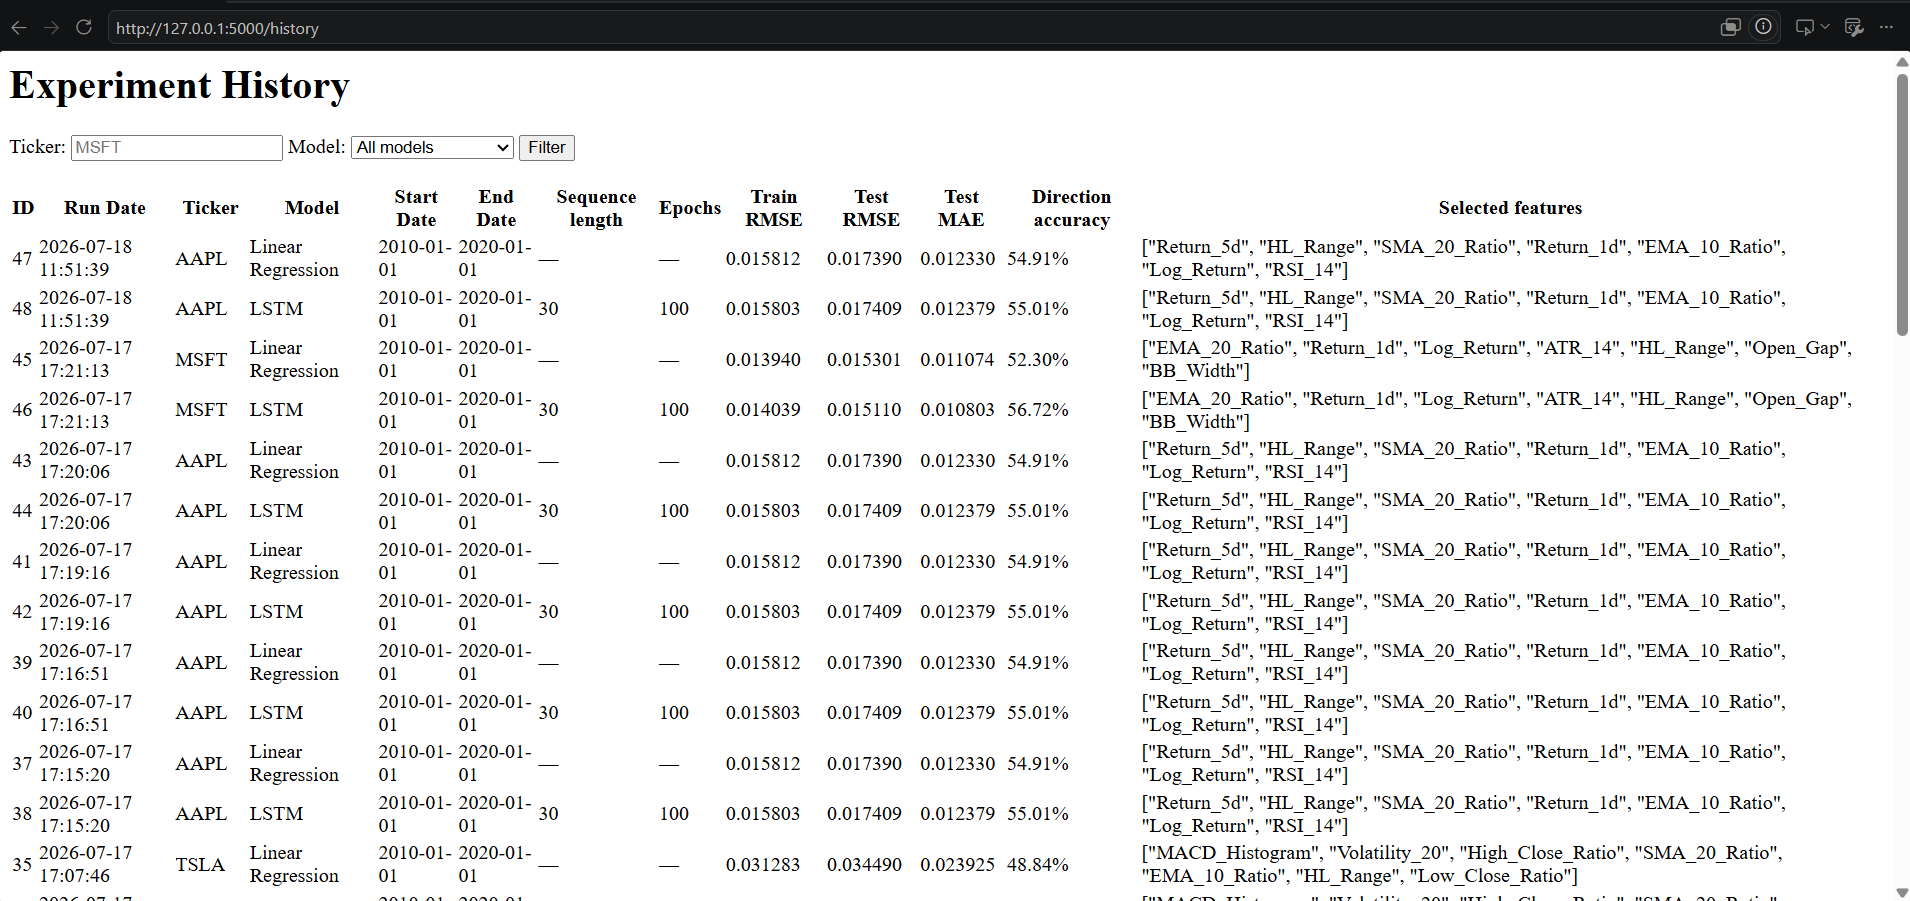
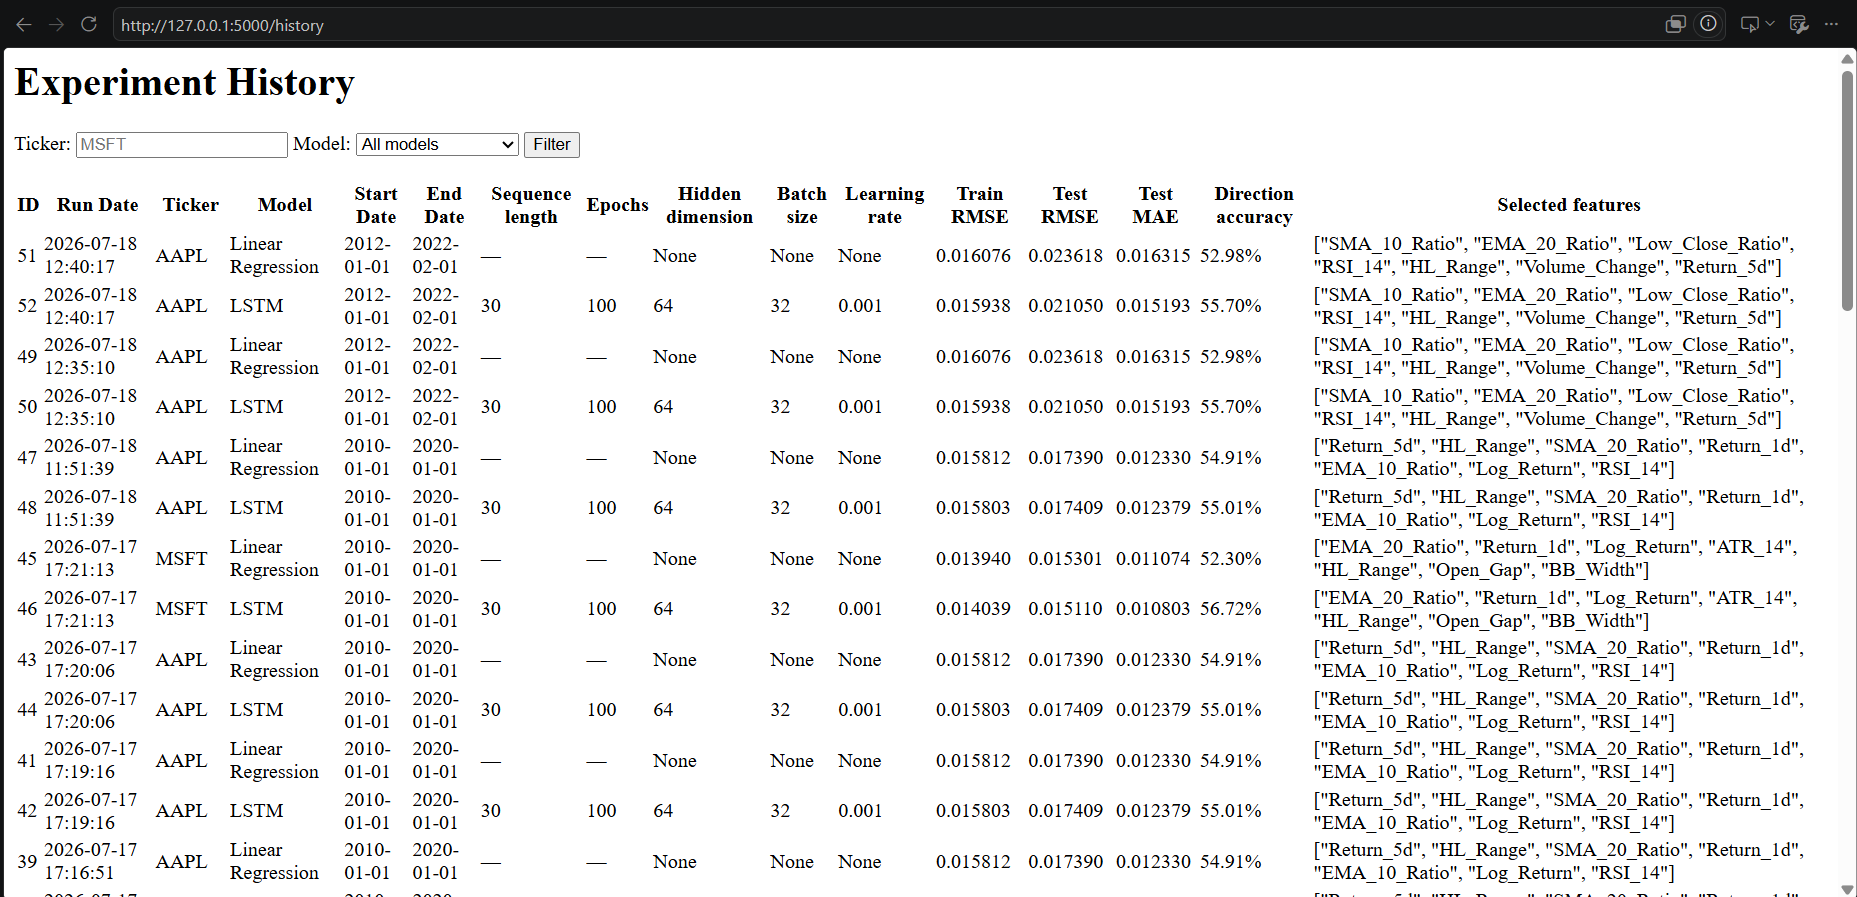
Update README

Changed region(s): [[0.0, 0.0, 1.0, 1.0]]

diff --git a/templates/history.html b/templates/history.html
@@ -50,6 +50,9 @@
 
                     <th>Sequence length</th>
                     <th>Epochs</th>
+                    <th>Hidden dimension</th>
+                    <th>Batch size</th>
+                    <th>Learning rate</th>
                     <th>Train RMSE</th>
                     <th>Test RMSE</th>
                     <th>Test MAE</th>
@@ -66,8 +69,8 @@
                         <td>{{ experiment.created_at }}</td>
                         <td>{{ experiment.ticker }}</td>
                         <td>{{ experiment.model_type }}</td>
-                        <td>{{experiment.start_date}}</td>
-                        <td>{{experiment.end_date}}</td>
+                        <td>{{ experiment.start_date }}</td>
+                        <td>{{ experiment.end_date }}</td>
 
                         <td>
                             {{ experiment.sequence_length or "—" }}
@@ -75,6 +78,18 @@
 
                         <td>
                             {{ experiment.epochs or "—" }}
+                        </td>
+
+                        <td>
+                            {{ experiment.hidden_dimension }}
+                        </td>
+
+                        <td>
+                            {{ experiment.batch_size }}
+                        </td>
+
+                        <td>
+                            {{ experiment.learning_rate }}
                         </td>
 
                         <td>

diff --git a/main.py b/main.py
@@ -178,8 +178,10 @@ def run_experiment(ticker, start_date, end_date, SEQ_LENGTH=SEQ_LENGTH, NUM_EPOC
         f"{start_date}_"
         f"{end_date}_"
         f"seq{SEQ_LENGTH}_"
+        f"epoch{NUM_EPOCHS}_"
         f"h{HIDDEN_DIM}_"
-        f"layers{NUM_LAYERS}.pth"
+        f"batch{BATCH_SIZE}"
+        f"lr{LEARNING_RATE}.pth"
     )
 
     df_all = load_or_update_stock_data(ticker)
@@ -383,7 +385,10 @@ def run_experiment(ticker, start_date, end_date, SEQ_LENGTH=SEQ_LENGTH, NUM_EPOC
 
         "seq_length": SEQ_LENGTH,
         "num_epochs": NUM_EPOCHS,
-        "selected_features": list(X_train_raw.columns)
+        "selected_features": list(X_train_raw.columns),
+        "hidden_dim": HIDDEN_DIM,
+        "batch_size": BATCH_SIZE,
+        "learning_rate": LEARNING_RATE
     }
 
 

diff --git a/README.md b/README.md
@@ -215,7 +215,6 @@ Stock_Prediction_LSTM/
 ├── templates/
 ├── saved_models/
 ├── saved_data/
-├── images/
 └── stock_models.db
 
 
@@ -225,4 +224,3 @@ Stock_Prediction_LSTM/
 - Docker deployment
 - Add Transformer model
 - Add previous return baseline (eg. tomorrow's return = todays return)
-